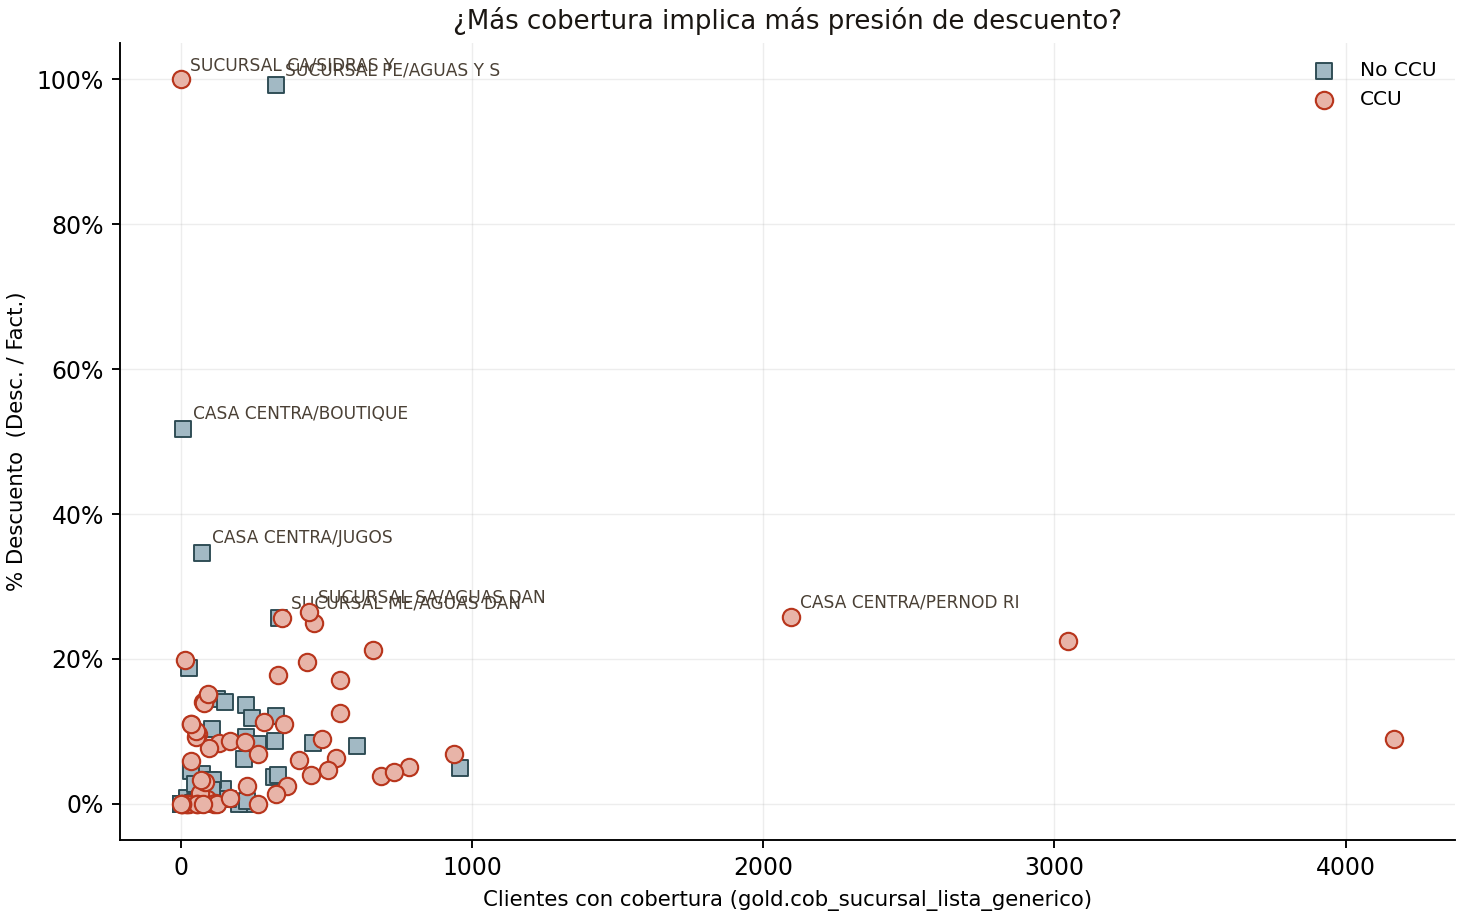
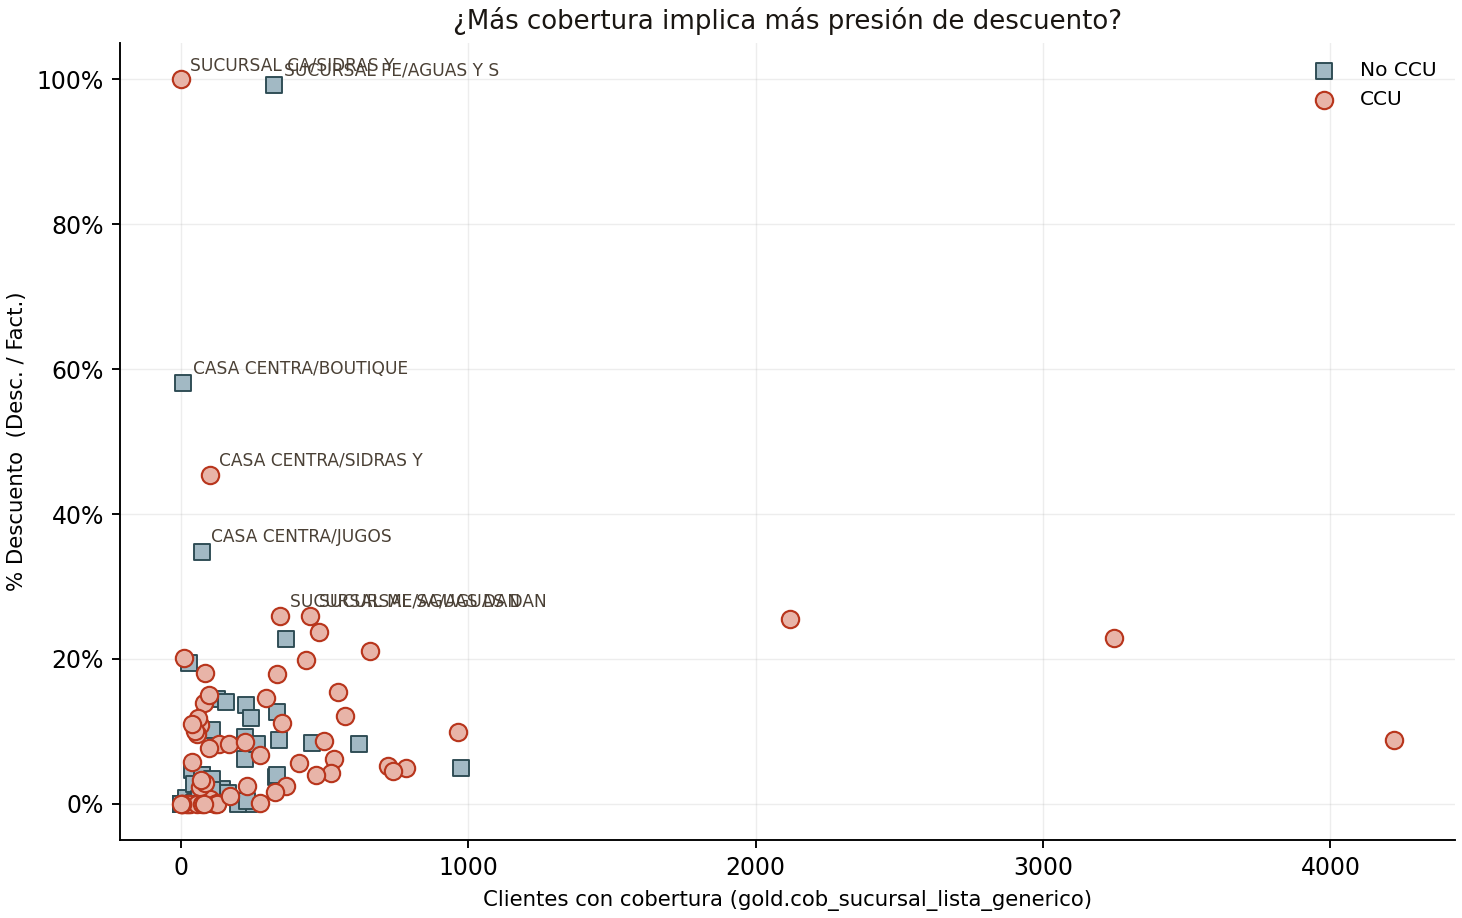
chore(acciones-comerciales): update the Salta Capital tasas (28-ago-2026)
CCU informed two new rates for Salta Capital:

  CERVEZAS      13.4% -> 13.5%
  AGUAS DANONE   9.6% ->  9.1%   (was still coming from the .xlsm)

The override now covers 6 of the 8 zones; SALTA INT. SUR for both genéricos
is the only pair still read from the manual workbook. A zone absent from the
override is never overwritten.

diff --git a/dashboards/acciones-comerciales/build_informe_excel.py b/dashboards/acciones-comerciales/build_informe_excel.py
@@ -91,18 +91,22 @@ LISTA_PRECIO_ID = {
 #   ADO (AGUAS DANONE) Jujuy Interior 9,5%   Salta Int. Norte 9,1%
 # Corregido el 2026-08-19:
 #   CCU (CERVEZAS)     Salta Capital 13,4%   (el .xlsm traia 12,8%)
+# Corregido el 2026-08-28:
+#   CCU (CERVEZAS)     Salta Capital 13,5%   (venia de 13,4%)
+#   ADO (AGUAS DANONE) Salta Capital  9,1%   (el .xlsm traia 9,6%)
 #
 # SALTA INT. SUR no se informo: sigue saliendo del .xlsm. Una zona ausente
 # aca NO se pisa.
 # ─────────────────────────────────────────────────────────────────────────
 TASA_OVERRIDE = {
-    ("CERVEZAS", "SALTA CAPITAL"): 0.134,
+    ("CERVEZAS", "SALTA CAPITAL"): 0.135,        # 13,4% -> 13,5% (28-ago-2026)
     ("CERVEZAS", "JUJUY INTERIOR"): 0.053,
     ("CERVEZAS", "SALTA INT. NORTE"): 0.075,
+    ("AGUAS DANONE", "SALTA CAPITAL"): 0.091,    # el .xlsm traia 9,6% (28-ago-2026)
     ("AGUAS DANONE", "JUJUY INTERIOR"): 0.095,
     ("AGUAS DANONE", "SALTA INT. NORTE"): 0.091,
 }
-TASA_OVERRIDE_FUENTE = "informada por CCU (18/19-ago-2026)"
+TASA_OVERRIDE_FUENTE = "informada por CCU (18/19-ago-2026; Salta Capital actualizada el 28-ago)"
 
 
 def etiquetar_lista(nombre) -> str:
